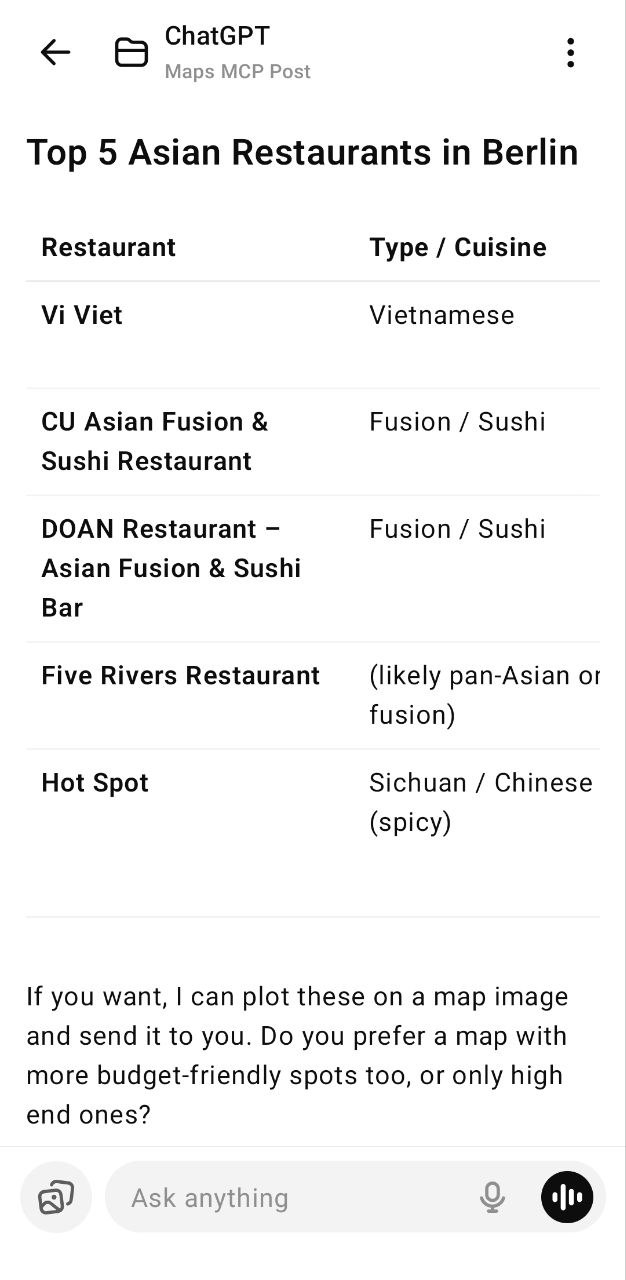
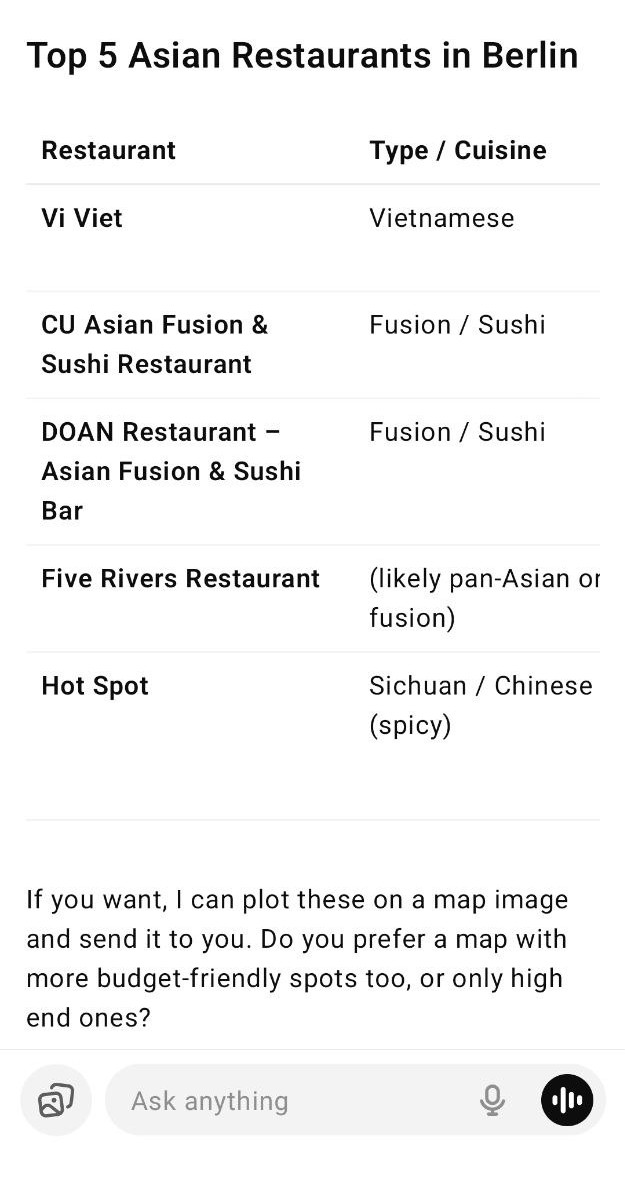
post 003 typos fix

diff --git a/_posts/2025-09-28-using-maps-in-ai-assistants.md b/_posts/2025-09-28-using-maps-in-ai-assistants.md
@@ -54,7 +54,7 @@ Before a deep dive, here is a summary of the results I got:
 |-------------|-----------------------------------------------------------|-------------------|----------------------------------------|
 | Gemini      | Interactive Google Maps In Responses | Yes               | Web Search + Google Maps Places API    |
 | Copilot     | TomTom Maps And Google Maps For Native                     | Yes               | Web Search + Google Maps Reviews       |
-| ChatGPT     | No, Possible MapBox Integration              | No                | Web Search                             |
+| ChatGPT     | No, Possible MapBox Integration              | Minimal                | Web Search                             |
 | Perplexity  | Limited, MapBox                                                    | Minimal        | Web Search + TripAdvisor + Selfbook    |
 | Claude      | Native Maps On Mobile                                     | Limited        | Web Search                             |
 
@@ -70,7 +70,7 @@ I've decided to prioritize using Google Search initially, following the guidance
 
 Seems like, besides having access to the huge Google Maps Places database, Gemini is explicitly told by developers to use Google Search initially and then use Maps for retrieving specific details like locations, reviews, opening hours, etc.
 
-Google's ecosystem includes, besides Maps, services like Hotel, Documents, Calendar and many more, which is also integrated in Gemini. This makes Google's AI assistant a comprehensive tool for multimodal, complex and context-aware tasks.
+Google's ecosystem includes, besides Maps, services like Hotels, Documents, Calendar and many more, which is also integrated in Gemini. This makes Google's AI assistant a comprehensive tool for multimodal, complex and context-aware tasks.
 
 {% include image-carousel.html id="gemini-carousel" img1="/assets/images/posts/2025-09-28-maps-ai/gemini_search.jpg" alt1="Gemini Maps Search Interface" img2="/assets/images/posts/2025-09-28-maps-ai/gemini_routes.jpg" alt2="Gemini Maps Routing Feature" img3="/assets/images/posts/2025-09-28-maps-ai/gemini_reason.jpg" alt3="Gemini Spatial Reasoning" %}
 
@@ -82,7 +82,7 @@ Microsoft, owning Bing Maps, is an active player in the map services market. It 
 
 ### OpenAI ChatGPT
 
-OpenAI, being the most popular AI assistant, surprisingly, does not have any native maps integration. When directly asked to show a map, it's providing a broken web-link to Google Maps application. It also failed a spatial reasoning test, suggesting to visit a pharmacy 5 kilometers away from the route points. It also does not have any specific places search capabilities, suggesting to use web search instead.
+OpenAI, being the most popular AI assistant, surprisingly, does not seem to have any maps integration. When directly asked to show a map, it's providing a broken link to Google Maps application. It also failed a spatial reasoning test, suggesting to visit a pharmacy 5 kilometers away from the route points. And ChatGPT does not have any specific places search capabilities, suggesting to use web search instead.
 
 MapBox integration in ChatGPT was [officially confirmed](https://www.mapbox.com/blog/mapbox-2024-year-in-review){:target="_blank" rel="noopener"} in 2024, and I personally saw it in August 2025, but right now it is not working for me, so it is not clear whether this integration was removed or restricted in my area.
 
